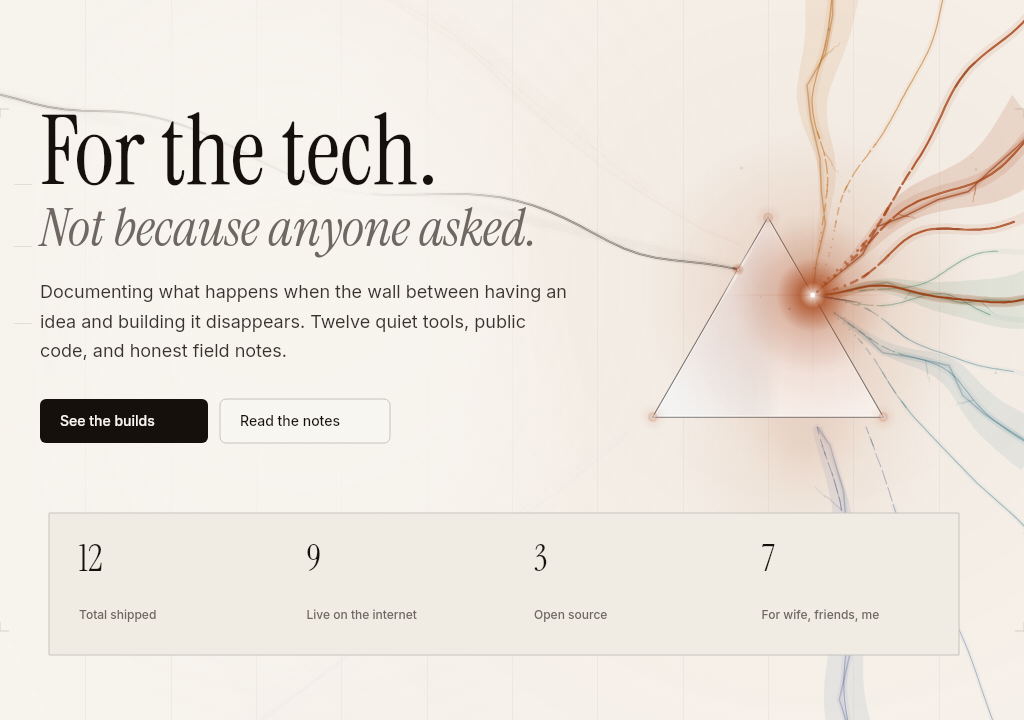
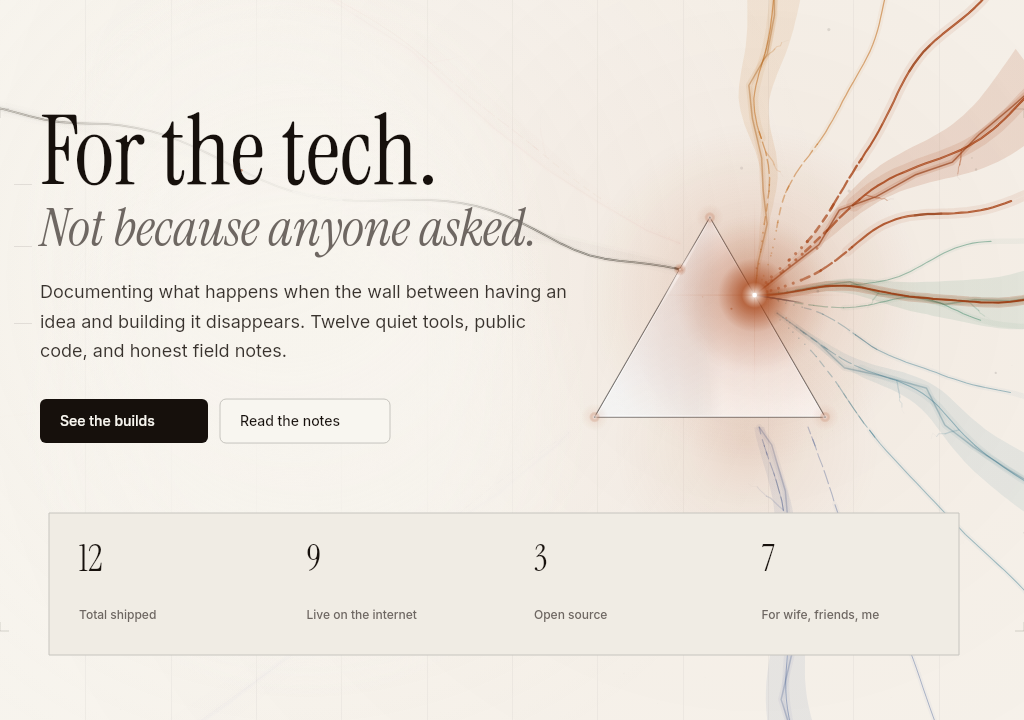
hero: aim the prism at the middle of the column
The glass was pinned to the column's three-quarter mark, which left the
section's centrepiece sitting out on the right shoulder. It now targets
the column's centre line and is held back only by the copy's clearance,
so on a 1440 frame the centre moves from 70% to 64.5% of the hero and
the fan is no longer crowded against the right edge.

A dead-centre glass is not reachable at this type size: the italic line
ends within a few pixels of the 50% line, so centring there would put
the body of the prism behind the last words and the lede. The new
phase8-prism-alignment.png shows the three placements side by side.

Phase 8 stills regenerated; invariants unchanged and passing.

diff --git a/src/components/sections/hero-ray.ts b/src/components/sections/hero-ray.ts
@@ -888,13 +888,20 @@ export function createHeroRay(options: HeroRayOptions = {}) {
         layout.container.left,
       );
       /**
-       * Centre-right, measured against the content column rather than the viewport: the glass
-       * is the right-hand anchor of a left-aligned composition, so its position has to read
-       * the same on a 1024 laptop and a 1920 monitor. Three bounds, in order of authority:
-       * the copy it shares a band with, the column's centre-right target, and the frame edge.
+       * The glass aims at the **middle of the column**, not at a right-hand anchor: the
+       * dispersion is the section's centrepiece, so the shape that creates it has to sit on
+       * the composition's centre line rather than pinned to the frame edge. Measured against
+       * the content column rather than the viewport, which is what makes it read the same on a
+       * 1024 laptop and a 1920 monitor.
+       *
+       * Three bounds, in order of authority: the copy it shares a band with, that centre, and
+       * the frame edge. The centre is only the *aim* — on this composition the display type
+       * reaches roughly the middle of the page, so in practice the copy's clearance is what
+       * decides, and the glass settles just past the last glyph instead of somewhere out on
+       * the right shoulder. That is the intended reading: the glass is held back by the words,
+       * never by a chosen offset.
        */
-      const target =
-        layout.container.left + (layout.container.right - layout.container.left) * 0.75;
+      const target = layout.container.left + (layout.container.right - layout.container.left) * 0.5;
       const clearance = bandRight + halfW + 24;
       const ceiling = heroW - halfW - Math.max(14, heroW * 0.02);
       const centreX = Math.min(ceiling, Math.max(clearance, target));

diff --git a/design/hero-phase8/README.md b/design/hero-phase8/README.md
@@ -20,28 +20,37 @@ entry landing (left facet, u = 0.26 wide / 0.56 portrait)
 ```
 
 Because the prism's position is solved from the landing, the beam and the glass cannot drift
-apart, and because the origin is the first *traced far-facet contact*, the fan cannot drift from the glass
+apart, and because the origin is the first _traced far-facet contact_, the fan cannot drift from the glass
 either. Moving one number moves the whole picture coherently.
 
-| viewport | prism centre | beam source | landing on the left facet | dispersion origin |
-| --- | --- | --- | --- | --- |
-| 1440 | (1008, 300) · 70 % of the column | left frame edge, (0, 38) | (975, 265) | right facet (composed emission) |
-| 1024 | (753, 302) · 75 % | left frame edge, (0, 95) | (720, 267) | right facet (composed emission) |
-| 390 | (333, 57) · corner | lower left, (0, 135) | (311, 55) | right facet |
+| viewport | prism centre                                        | beam source               | landing on the left facet | dispersion origin |
+| -------- | --------------------------------------------------- | ------------------------- | ------------------------- | ----------------- |
+| 1440     | (929, 359) · 68 % of the column, 64.5 % of the hero | left frame edge, (0, 65)  | (899, 278)                | (973, 303)        |
+| 1024     | (710, 351) · 69 %                                   | left frame edge, (0, 108) | (680, 269)                | (755, 295)        |
+| 390      | (337, 64) · corner                                  | lower left, (0, 135)      | (365, 57)                 | right facet       |
 
-### The glass is centre-right of the *column*, not of the viewport
+### The glass aims at the _column's middle_, not at a right-hand anchor
 
-The prism is the right-hand anchor of a left-aligned composition, so its position is measured
-against the content column (`.mx-auto max-w-6xl`), not against the window. That is what makes it
-read the same on a 1024 laptop and a 1920 monitor instead of drifting further right as the
-window grows:
+The prism is the centrepiece of the section, so its position is solved against the content
+column (`.mx-auto max-w-6xl`), not against the window — that is what makes it read the same on a
+1024 laptop and a 1920 monitor instead of drifting further right as the window grows. The aim is
+the column's centre line; the copy is the only thing allowed to hold it back:
 
 ```
-centreX = clamp(band + halfW + 24, column.left + 0.75·column, frame − halfW − 2 %)
+centreX = clamp(band + halfW + 24, column.left + 0.5·column, frame − halfW − 2 %)
 ```
 
-- **band** is the copy that actually shares the glass's vertical band — the display type — not
-  the widest text on the page. The lede and CTA row sit below it and must not shove the glass.
+On this composition the display type reaches roughly the middle of the page, so in practice the
+copy's clearance is what decides and the glass settles just past the last glyph — 64.5 % of the
+hero at 1440 rather than 70 %. That is the intended reading: **the glass is held back by the
+words, never by a chosen offset.** The footprint is also what keeps a dead-centre placement off
+the table: the italic line ends within a few pixels of the 50 % line, so a glass centred there
+would put its body behind "asked." and the right edge of the lede (see
+`phase8-prism-alignment.png`). Moving it further left needs a narrower copy, not a smaller margin.
+
+- **band** is the copy that actually shares the glass's vertical band — the display type, and at
+  rest also the top of the CTA row, whose box reaches up into that band. Everything below the
+  band (the rest of the lede and the buttons) sits under the glass and cannot push it.
 - **The size is part of that budget.** Below `lg` the hero's copy is still one full-width column,
   so the glass has no column of its own to sit in. Its size is capped by the room left beside
   the words, `min(preferred, frame − 24 − copyRight − margin)`; without that cap the right
@@ -70,10 +79,10 @@ reflected downward leg on desktop, but that leg is no longer painted at rest.
 Measured from `geometry().restOptics` on the checked-in layouts — the invariant suite asserts
 every one of these relationships, so the table cannot drift from the code:
 
-| layout | incidence θ1 | refracted θ2 | first facet @ angle from normal | critical | outcome |
-| --- | --- | --- | --- | --- | --- |
-| 1440 · 1024 | 16.7° | 11.0° | right @ 49.0° | 41.8° | **TIR at the right facet**, exits the base at 106.7° |
-| 390 | 44.4° | 27.8° | right @ 32.2° | 41.8° | refracts straight out of the right facet at 23.0° |
+| layout      | incidence θ1 | refracted θ2 | first facet @ angle from normal | critical | outcome                                              |
+| ----------- | ------------ | ------------ | ------------------------------- | -------- | ---------------------------------------------------- |
+| 1440 · 1024 | 16.7°        | 11.0°        | right @ 49.0°                   | 41.8°    | **TIR at the right facet**, exits the base at 106.7° |
+| 390         | 44.4°        | 27.8°        | right @ 32.2°                   | 41.8°    | refracts straight out of the right facet at 23.0°    |
 
 The wide-screen physical trace undergoes TIR at the far facet and exits through the base.
 `restOptics` retains this record unchanged, including Snell's law and the reflecting facet;
@@ -94,7 +103,7 @@ artistic exaggeration, not a simulation.
 ## 3. The wavy beam
 
 The old beam had **0.4 px** of wobble — invisible. The new one is a real travelling wave, but
-it is drawn as an *illustration*, and the code says so:
+it is drawn as an _illustration_, and the code says so:
 
 - **The optical axis is straight.** Incidence, the hinge on the facet, the Fresnel ghost and
   everything the ray tracer consumes come from the straight source → entry chord. The physics
@@ -122,7 +131,7 @@ packet climbing the same curve. Hovering the headline eases all of it up over 16
 ## 4. Light behind the letters, type above the light
 
 The canvas was already behind the content (`HeroPrism` `z-0`, `Container` `z-10`). The change
-that makes the beam read as *behind the type* is the layer order inside the canvas:
+that makes the beam read as _behind the type_ is the layer order inside the canvas:
 
 ```
 plate → fan → beam → dissolve → glass · spectral exit · entry spark → core → interaction
@@ -157,7 +166,7 @@ rects for all resting exit rays. No grain-sensitive hairline pixel-diff assertio
 
 The copy is full width, so there is no quiet band to land in and no upper-left corner to enter
 from. Portrait flips the vertical: the glass sits in the top-right corner (sized 76–108 px so
-it fits a 390 px frame *and* clears the display type, both measured), and the beam **rises**
+it fits a 390 px frame _and_ clears the display type, both measured), and the beam **rises**
 from the lower-left frame edge at 14° into the entry facet. The approach angle is −14°; incidence is 44.4° from the normal, and this
 refracts straight out of the right facet. The fan still falls down the
 page as a curtain.
@@ -184,16 +193,16 @@ npm run compose -- 1440x780-dark live    # one layout, pointer inside the glass
 ```
 
 `compose.mts` reads the fonts straight out of `node_modules/@fontsource`, so it needs no setup.
-When a browser *is* available, `tools/hero-qa.mjs` is still the better answer: it measures the
+When a browser _is_ available, `tools/hero-qa.mjs` is still the better answer: it measures the
 live DOM and screenshots the real page.
 
-| file | what |
-| --- | --- |
-| `phase8-page-1440x780.png` | composed, light |
-| `phase8-page-1440x780-dark.png` | composed, dark |
+| file                                 | what                                             |
+| ------------------------------------ | ------------------------------------------------ |
+| `phase8-page-1440x780.png`           | composed, light                                  |
+| `phase8-page-1440x780-dark.png`      | composed, dark                                   |
 | `phase8-page-1440x780-dark-live.png` | pointer parked inside the glass: TIR → base exit |
-| `phase8-page-1024x768.png` | composed, 1024 |
-| `phase8-page-390x820.png` | composed, portrait |
+| `phase8-page-1024x768.png`           | composed, 1024                                   |
+| `phase8-page-390x820.png`            | composed, portrait                               |
 
 ## Measured
 
@@ -221,10 +230,10 @@ cd scripts/hero-qa && npm run bench
 
 Engine cost at 1440×720 in this session (medians, same harness before/after):
 
-| | before | clear resting glass + resting spectrum |
-| --- | --- | --- |
-| composed still | 3.50 ms | 3.50 ms |
-| live | 3.82 ms | 3.69 ms |
+|                | before  | clear resting glass + resting spectrum |
+| -------------- | ------- | -------------------------------------- |
+| composed still | 3.50 ms | 3.50 ms                                |
+| live           | 3.82 ms | 3.69 ms                                |
 
 112 checks pass across the four captured layouts. Full-bleed coverage, prime-lane tolerance,
 physical trace invariants, catch release and stable reduced-motion paints remain asserted.
